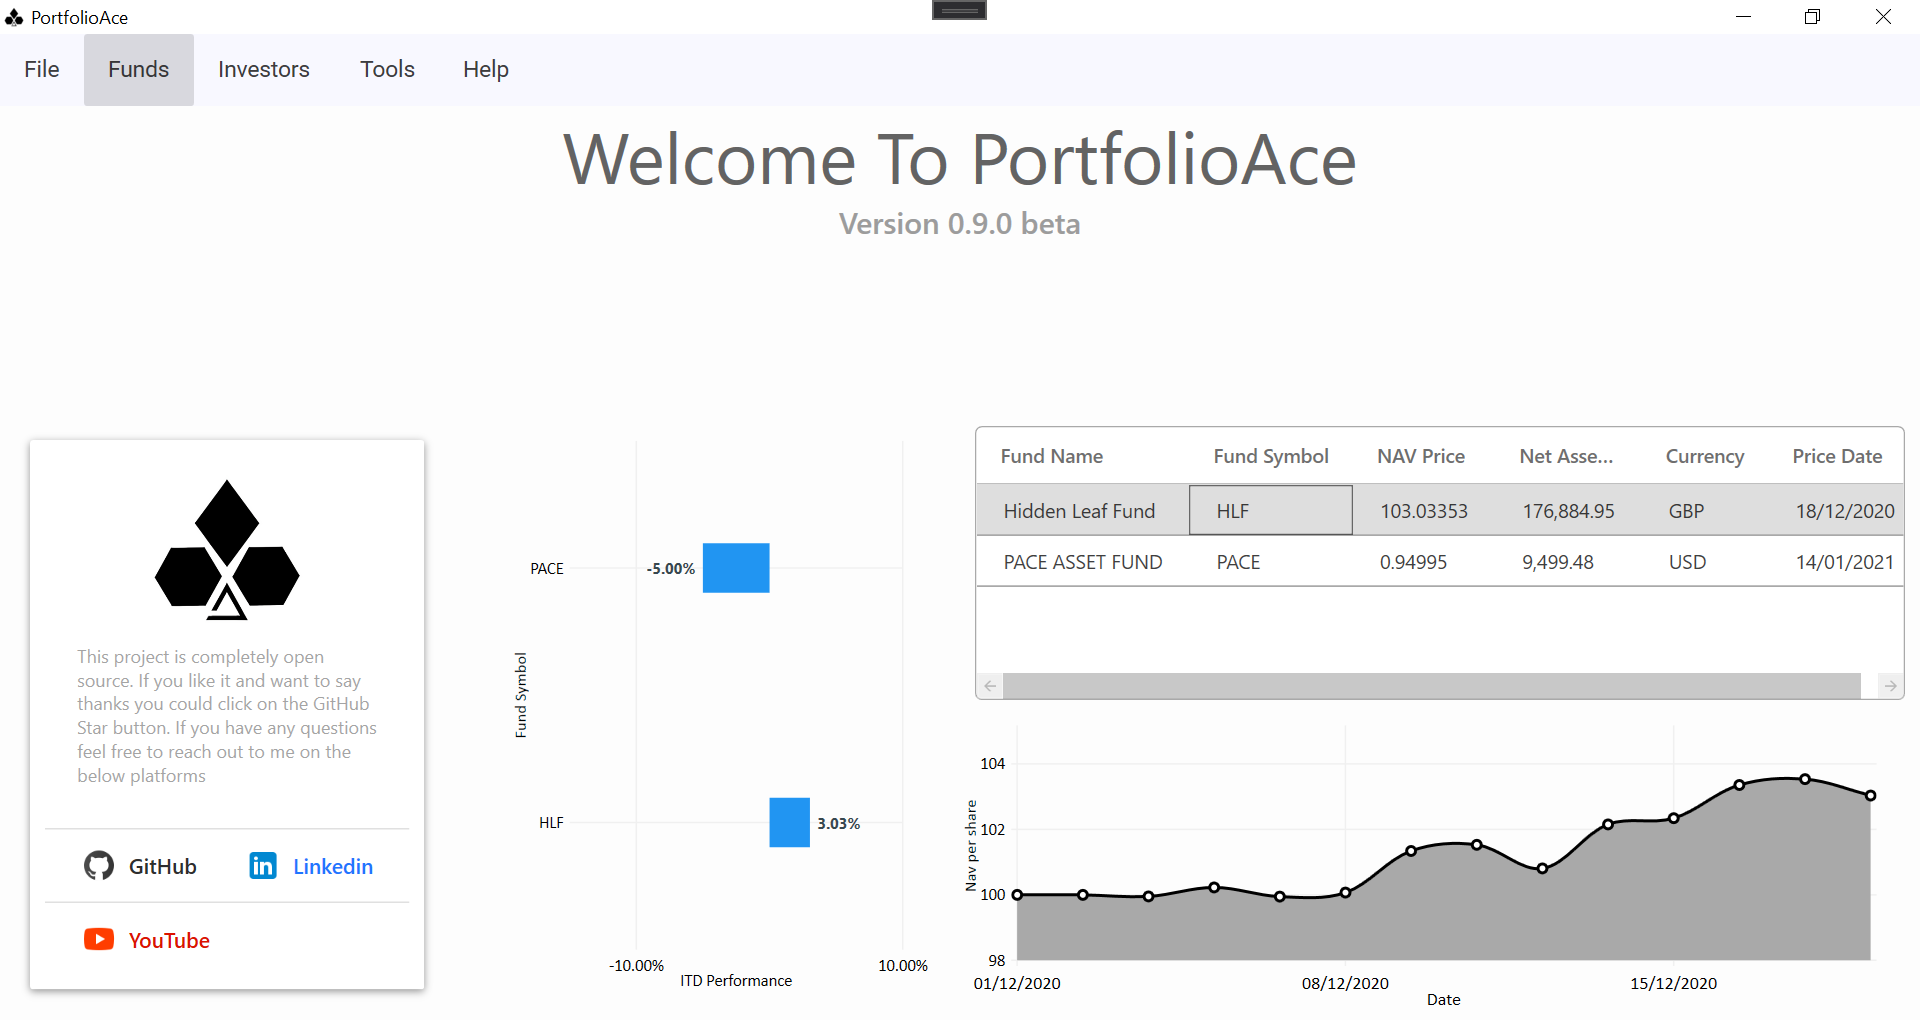
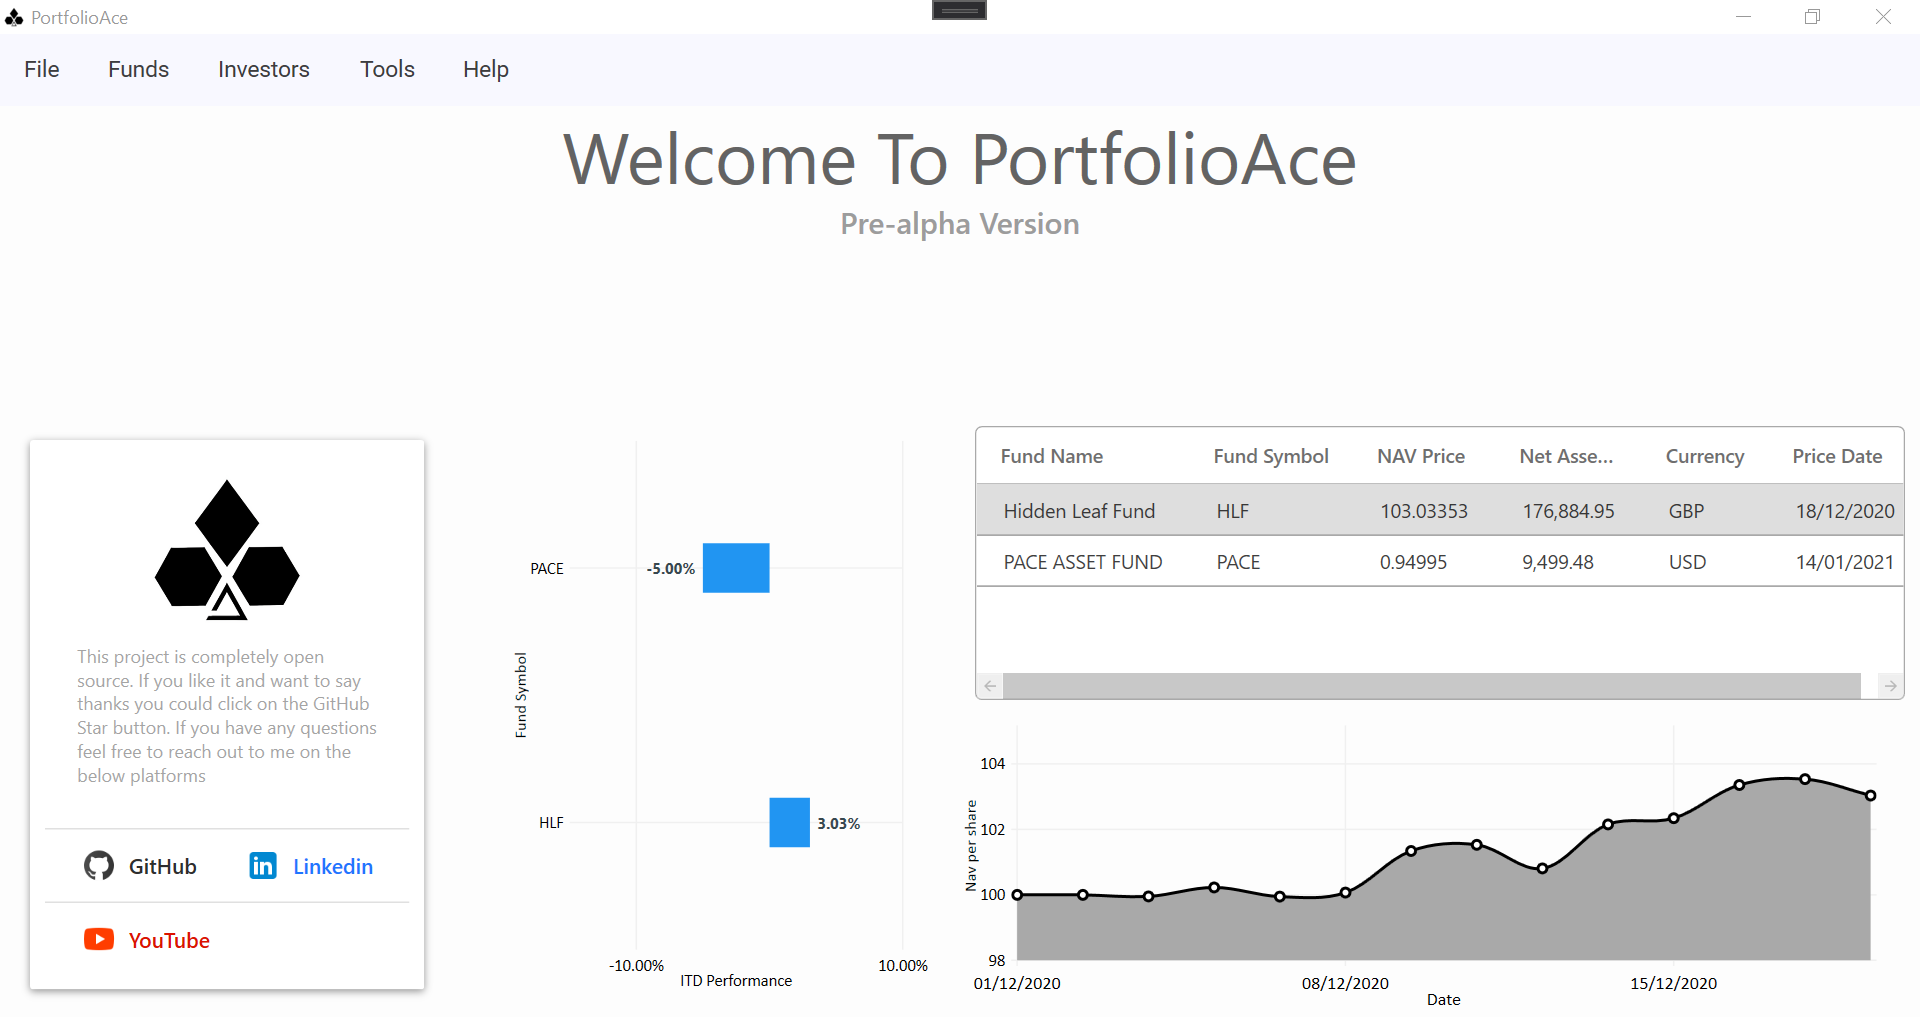
typo and resource change

diff --git a/PortfolioAce/Views/HomeView.xaml b/PortfolioAce/Views/HomeView.xaml
@@ -26,7 +26,7 @@
         </Grid.RowDefinitions>
         <DockPanel Grid.Row="0" Grid.Column="0" Grid.ColumnSpan="4">
             <TextBlock DockPanel.Dock="Top" HorizontalAlignment="Center" Text="Welcome To PortfolioAce" Style="{DynamicResource MaterialDesignHeadline3TextBlock}" Foreground="#636363"/>
-            <TextBlock DockPanel.Dock="Top" Text="Version Pre-alpha" HorizontalAlignment="Center" Style="{DynamicResource MaterialDesignHeadline6TextBlock}" Foreground="#9c9c9c"/>
+            <TextBlock DockPanel.Dock="Top" Text="Pre-alpha Version" HorizontalAlignment="Center" Style="{DynamicResource MaterialDesignHeadline6TextBlock}" Foreground="#9c9c9c"/>
         </DockPanel>
         <DataGrid IsReadOnly="True" AutoGenerateColumns="False" Grid.Row="1" Grid.Column="2" Grid.ColumnSpan="2" Background="White" BorderBrush="DarkGray" 
                   BorderThickness="1" Margin="10" ItemsSource="{Binding dgLatestNavPrices}" SelectedItem="{Binding selectedPrice,Mode=TwoWay, UpdateSourceTrigger=PropertyChanged}">
